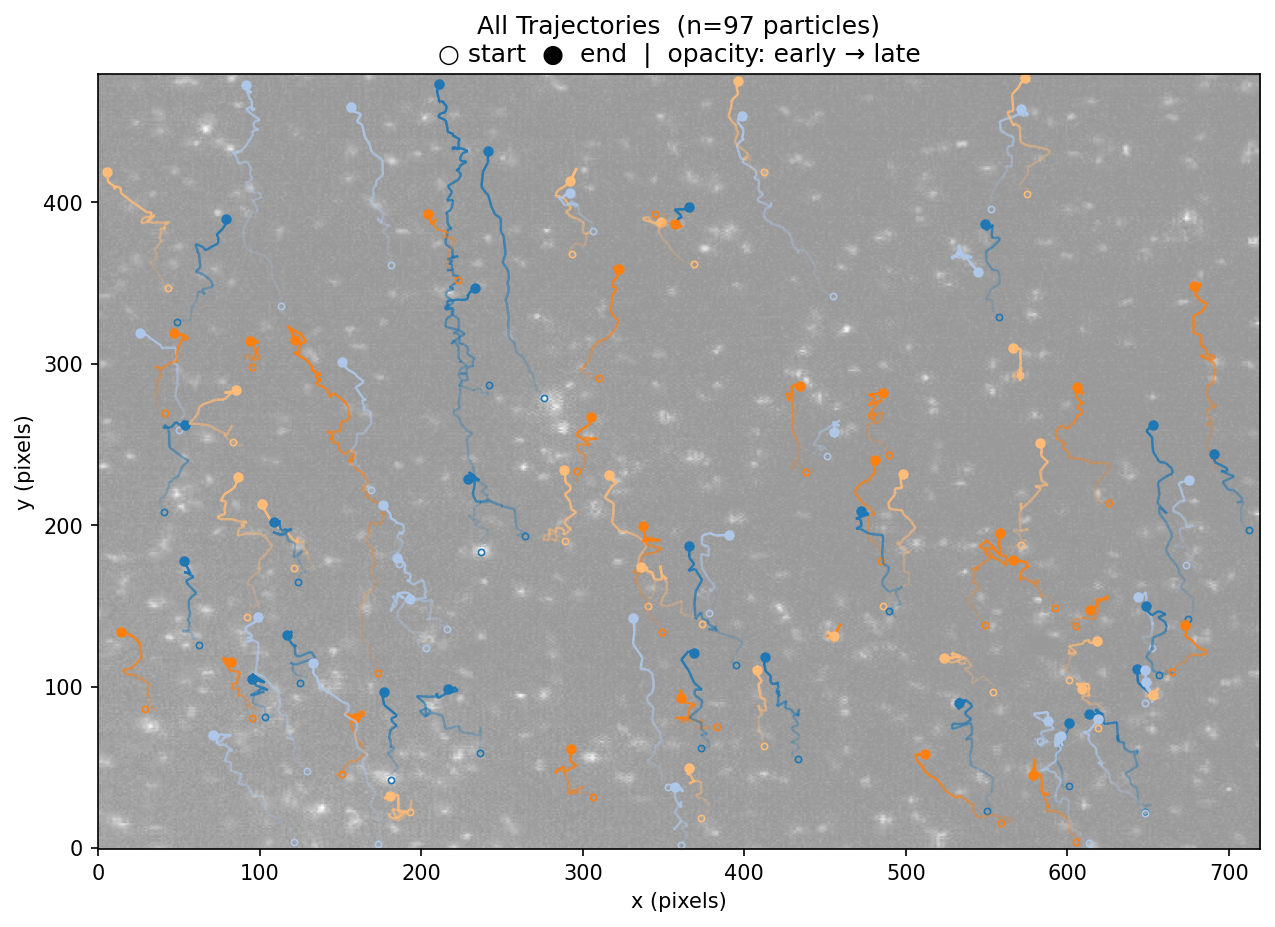
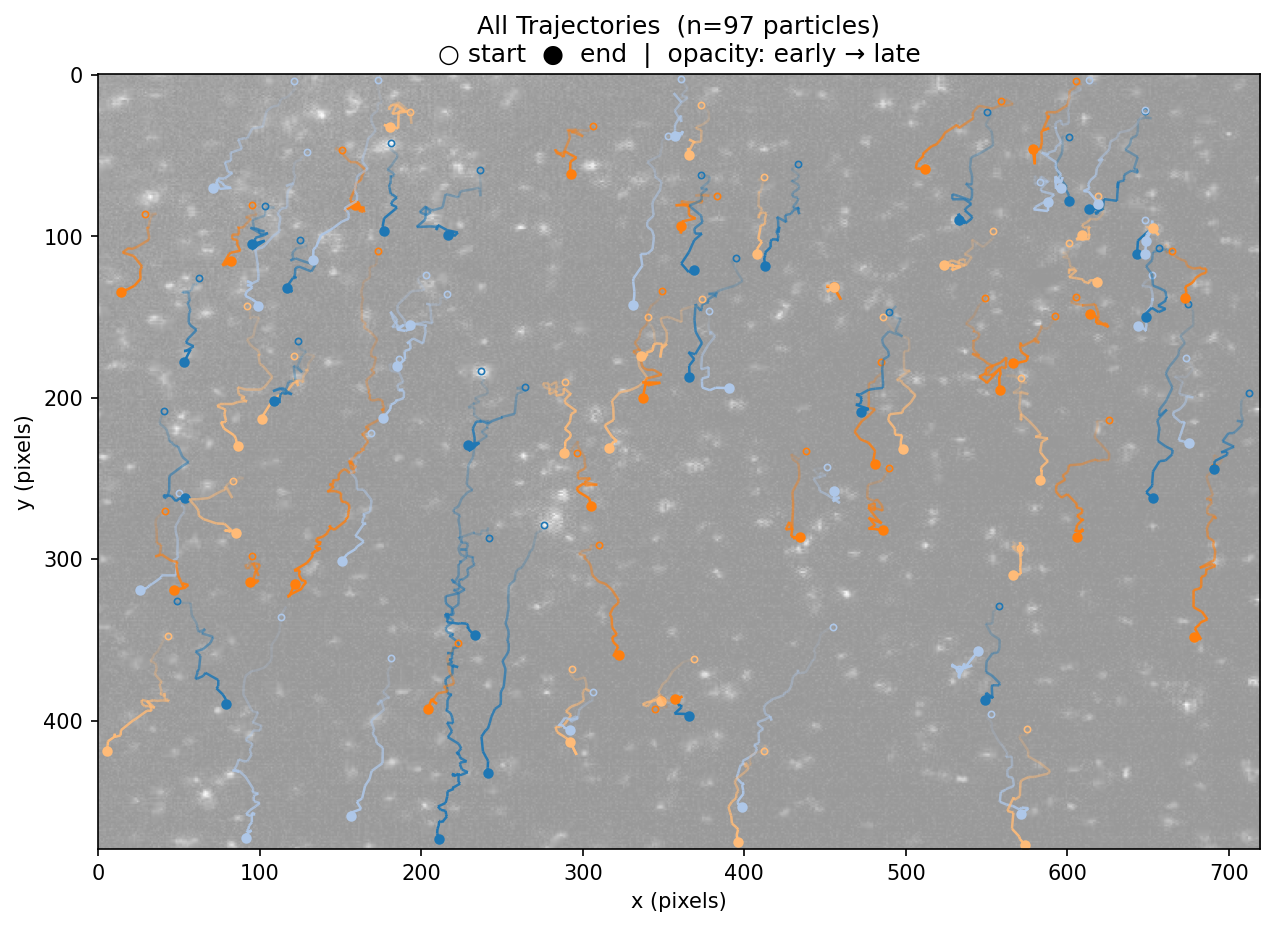
fix: all_trajectories y축 버그 수정 후 기존 결과 파일 재생성

diff --git a/config.py b/config.py
@@ -3,7 +3,7 @@ PIXEL_SIZE_NM = None        # nm/pixel. None이면 픽셀 단위로 출력
 
 # 입자 검출 파라미터 (--preview 로 확인하며 튜닝)
 PARTICLE_DIAMETER = 5      # 홀수, 픽셀 단위 (입자 밝은 영역 직경)
-MIN_MASS = 150              # 최소 밝기 임계값 (낮추면 더 많이 검출)
+MIN_MASS = 80              # 최소 밝기 임계값 (낮추면 더 많이 검출)
 
 # 추적 파라미터
 SEARCH_RANGE = 10           # 프레임 간 최대 이동 허용 픽셀
